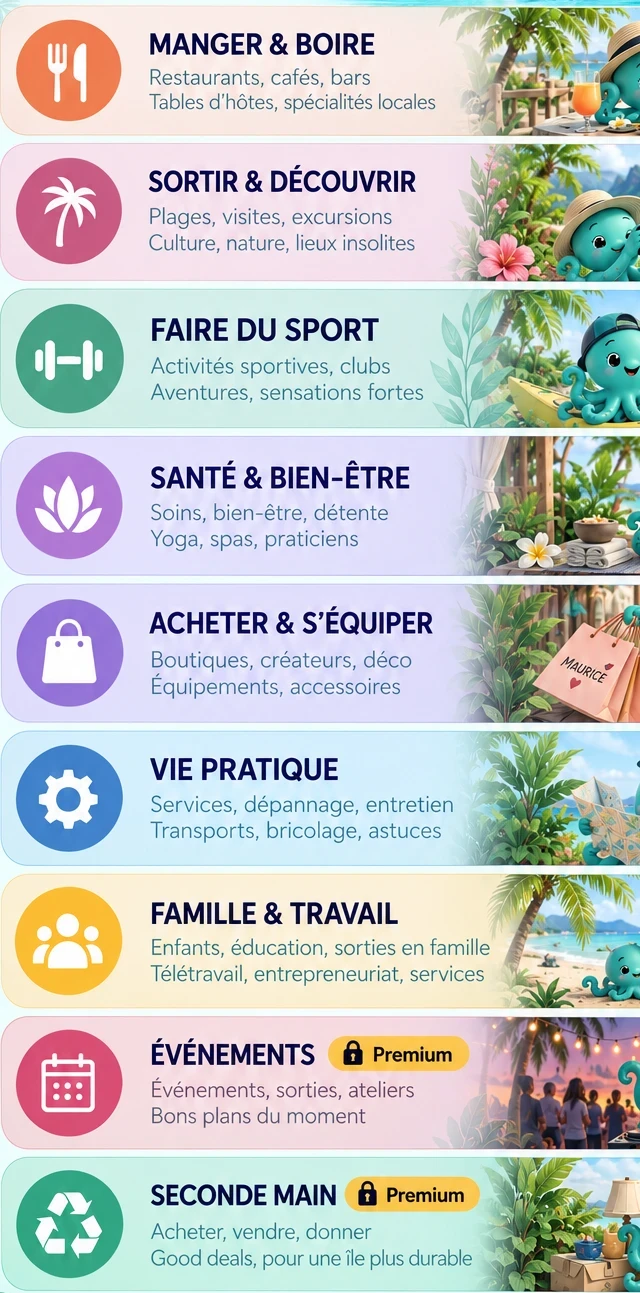
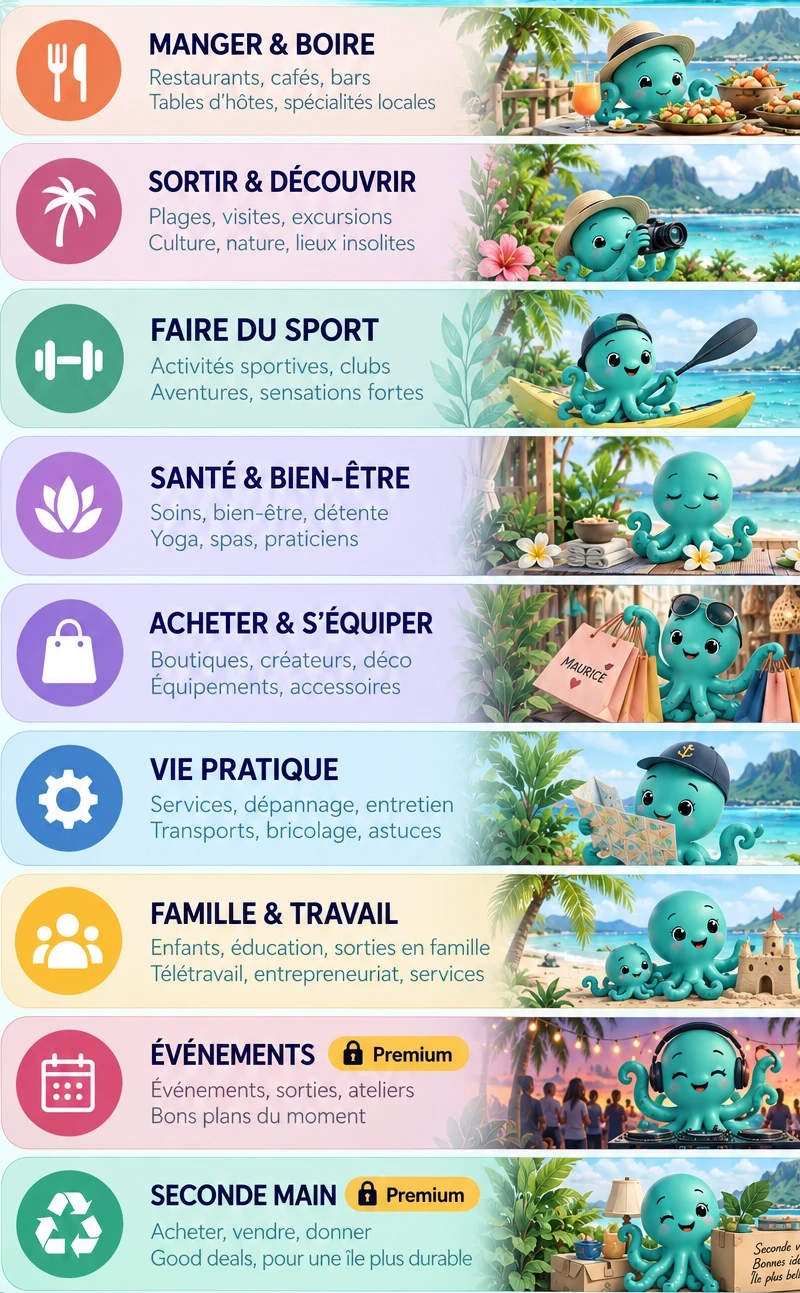
Élargit le recadrage des lignes catégories pour montrer les mascottes en entier
Le recadrage précédent (640px) tronquait trop l'image à droite ; on passe
à 800px, compromis entre hauteur perçue et visibilité des mascottes.

diff --git a/web/app/DirectoryClient.tsx b/web/app/DirectoryClient.tsx
@@ -176,10 +176,10 @@ const COMMON_HOME_CATEGORIES = CATEGORIES.filter((c) =>
 // l'encart de titre du haut ni le bandeau de fin, et resserré horizontalement
 // (moins de photo à droite) pour qu'une fois étiré en pleine largeur l'image
 // paraisse plus haute/grande (cf. public/explorer-categories-rows.webp,
-// recadrage de explorer-categories.webp : x=32-672, y=144-1437 sur les
-// 1024×1536 d'origine). Chaque ligne est cliquable via une zone invisible
-// positionnée en % sur l'image. Coordonnées recalculées pour ce recadrage
-// (640×1293).
+// recadrage de explorer-categories.webp : x=32-832, y=144-1437 sur les
+// 1024×1536 d'origine ; 832 garde les mascottes entières). Chaque ligne est
+// cliquable via une zone invisible positionnée en % sur l'image (verticales
+// uniquement, donc inchangées par le recadrage horizontal) — image 800×1293.
 const EXPLORER_CATEGORIES_HOTSPOTS: { key: CategoryKey | "seconde-main"; label: string; top: number; height: number }[] = [
   { key: "manger-boire", label: "Manger & boire", top: 0, height: 10.7 },
   { key: "sortir-decouvrir", label: "Sortir & découvrir", top: 11.1, height: 10.7 },
